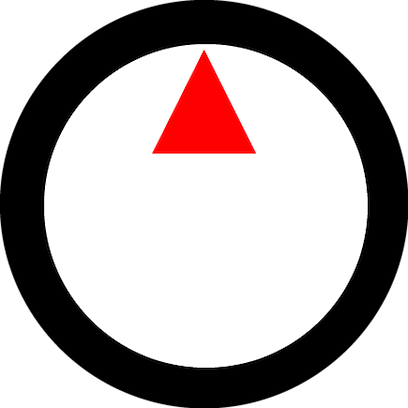
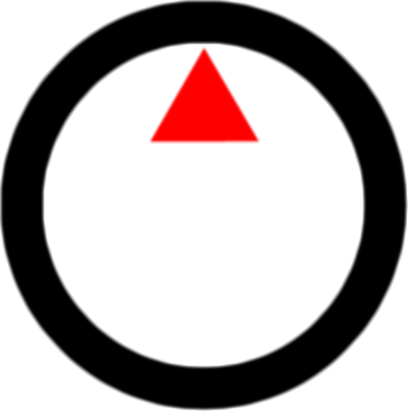
コンパスの画像変更とサイズ修正、iOSの最低バージョンを9.2に修正

diff --git a/CerdAR/CerdAR/cameraViewController.swift b/CerdAR/CerdAR/cameraViewController.swift
@@ -94,7 +94,7 @@ class cameraViewController: UIViewController, CLLocationManagerDelegate, detailV
         toMap_Button.addTarget(self, action: #selector(cameraViewController.onClick_map(_:)), for: .touchUpInside)
         
         // コンパス
-        compassView = UIImageView(frame: CGRect(x: 40.0, y: 40.0, width: imgCompass.size.width / 2, height: imgCompass.size.height / 2))
+        compassView = UIImageView(frame: CGRect(x: 40.0, y: 40.0, width: imgCompass.size.width / 4, height: imgCompass.size.height / 4))
         compassView.image = imgCompass
         view.addSubview(compassView)
         
